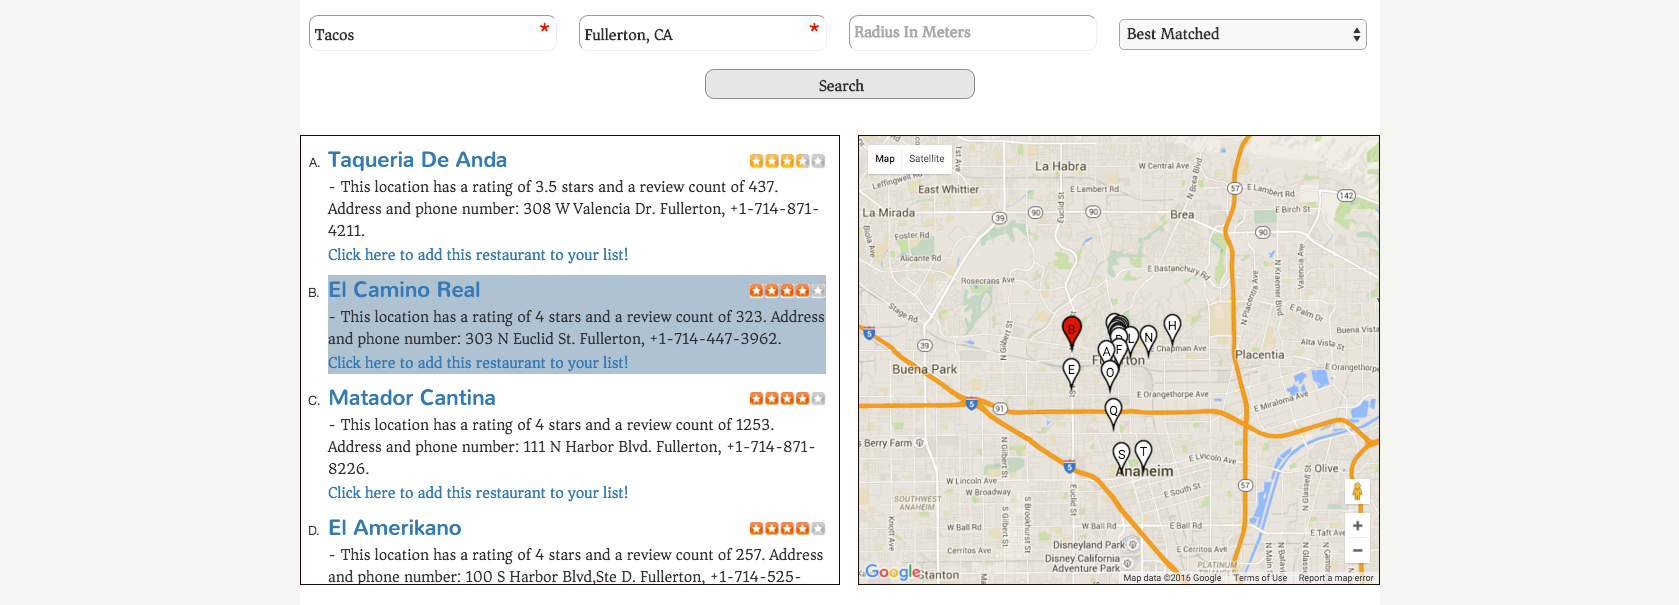
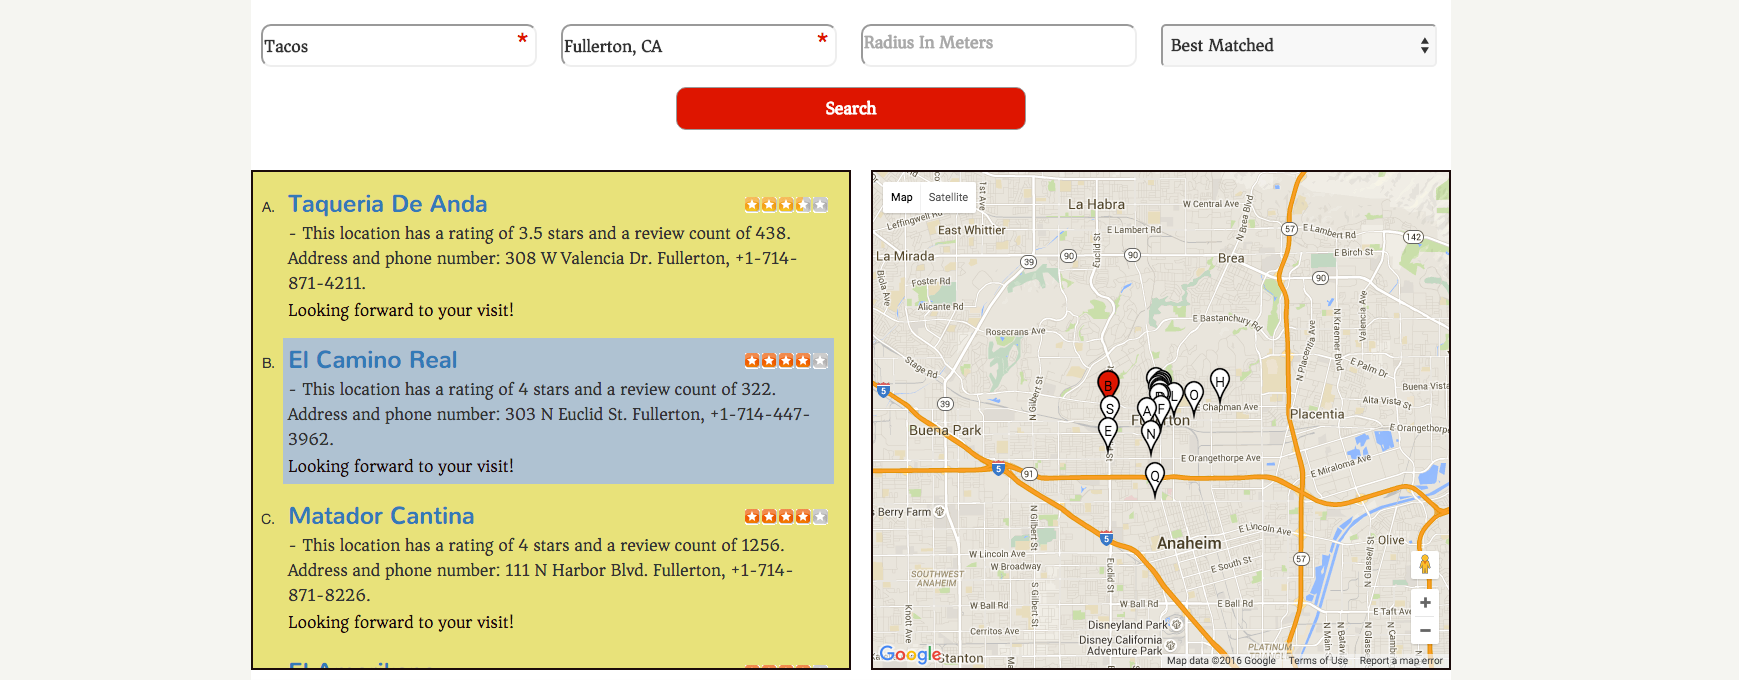
Modified screenshots and changed product description color

diff --git a/css/default.css b/css/default.css
@@ -59,7 +59,7 @@ body {
   border: 2px solid #1b0b0a;
   padding-left: 30px;
   margin-right: 20px;
-  background-color: #fff;
+  background-color: #e8e27a;
 }
 
 #search-bar {
@@ -140,14 +140,14 @@ body {
 
 #product-description {
   padding: 30px 0px 30px 0px;
-  background-color: #f6a800;
+  background-color: #FFF776;
   padding-top: 20px;
   padding-bottom: 60px;
   margin-bottom: 20px;
 }
 
 .row-one {
-  background-color: rgb(213, 135, 0);
+  background-color: #E2D729;
   transform: skewY(-5deg);
   padding-top: 20px;
   padding-bottom: 20px;
@@ -159,7 +159,7 @@ body {
 
 #row-two {
   transform: skewY(5deg);
-  background-color: #c67900;
+  background-color: #C6BB00;
   padding-top: 20px;
   padding-bottom: 70px;
 }
@@ -255,6 +255,8 @@ body {
 
 .new-li {
   margin-top: 10px;
+  background-color: #e8e27a;
+  padding: 5px 5px 5px 5px;
 }
 
 .highlight {
